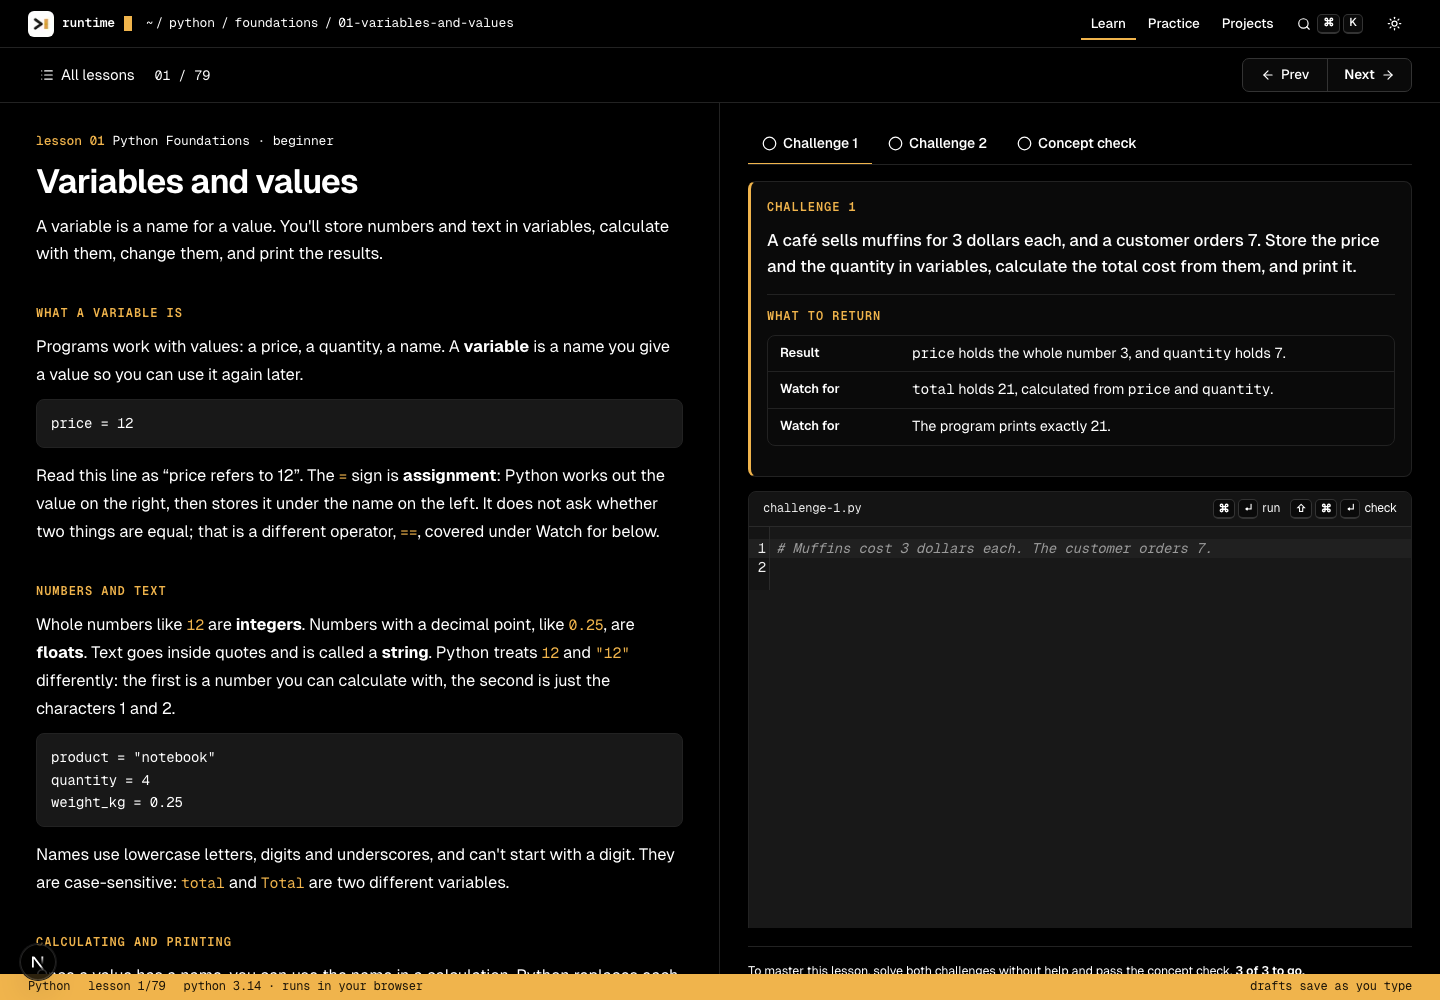
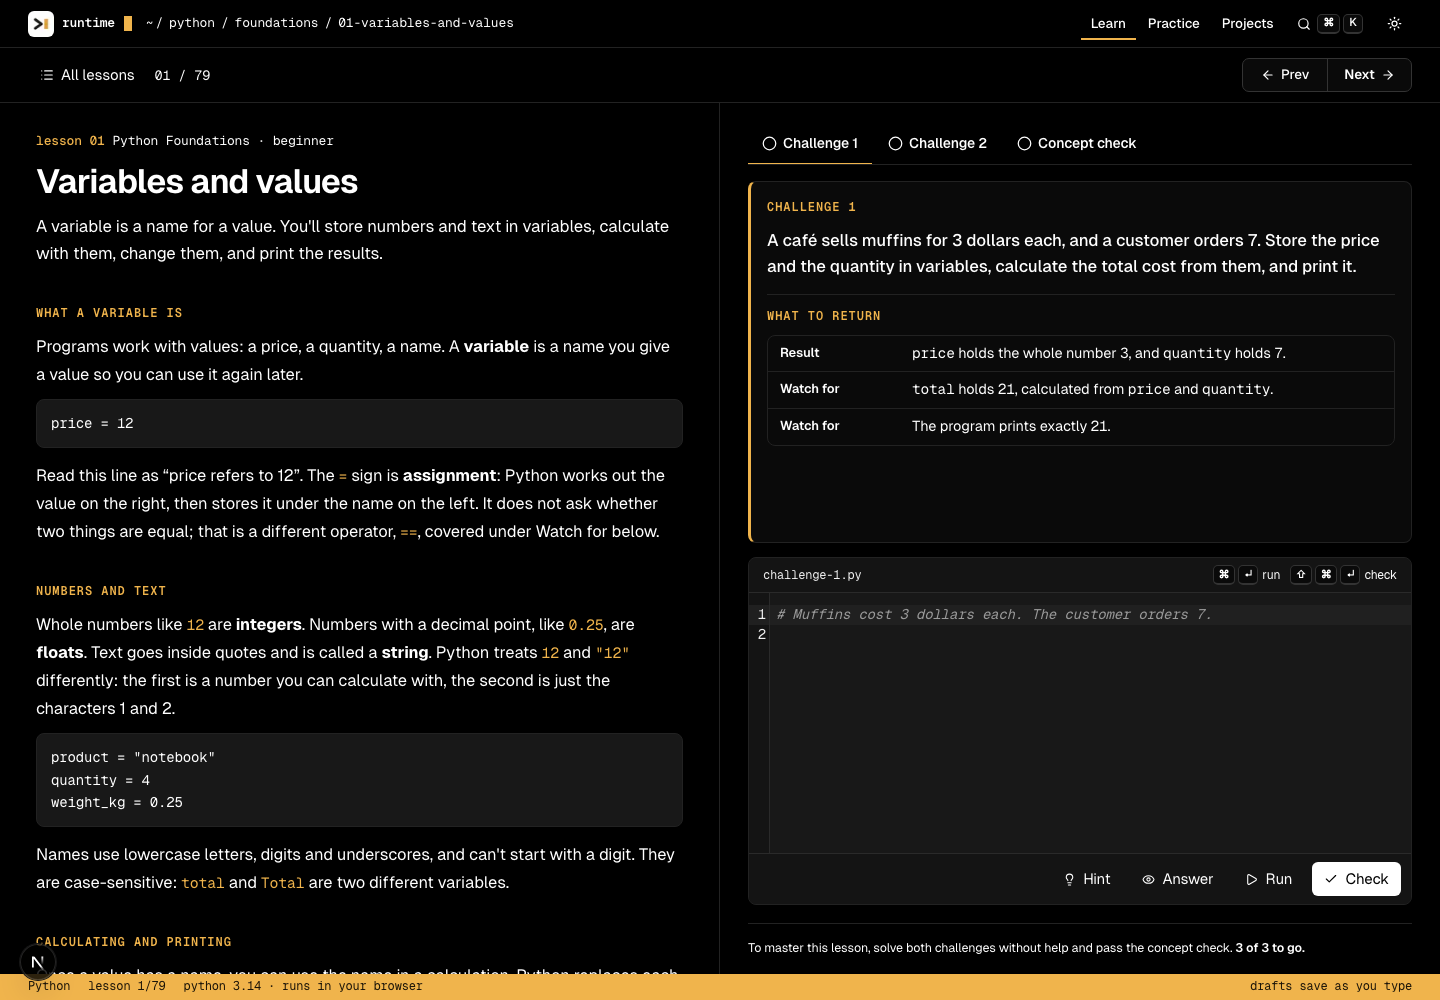
Balance Python editors and remove project preparation UI

diff --git a/src/features/py/Journeys.tsx b/src/features/py/Journeys.tsx
@@ -3,8 +3,7 @@ import Link from 'next/link';
 import { useState } from 'react';
 import { pythonJourneys, pythonProjects, journeyHref } from '@/content/python/journeys';
 import { projectGuides, projectLevels, projectSkills } from '@/content/python/journeys/catalog';
-import { getPythonLesson, pythonLessonHref } from '@/content/python';
-import { isPyLessonMastered, usePyProgress, usePyProgressReady } from '@/lib/python-progress';
+import { usePyProgress, usePyProgressReady } from '@/lib/python-progress';
 import { Shell } from '@/features/rt/Shell';
 import { BrowserBar } from './BrowserBar';
 import { Exercise } from './Study';
@@ -23,7 +22,7 @@ export function ProjectIndex() {
   });
   return <Shell subject="python" section="projects" path={[{label:'python',href:'/python'},{label:'projects'}]}><div className="rx-page py-catalog">
     <h1 className="rx-title">Python projects</h1><p className="rx-lead">Pick one useful program. Build it a milestone at a time, test your decisions, and keep the code and results.</p>
-    <p>Every project here runs in your browser with supplied data. Difficulty describes the programming involved; preparation links show what to learn first. Session estimates include time to try, debug, and check your work.</p>
+    <p>Every project here runs in your browser with supplied data. Difficulty describes the programming involved. Session estimates include time to try, debug, and check your work.</p>
     <div className="py-filters">
       <label>Search projects<input type="search" value={query} onChange={e => setQuery(e.target.value)} /></label>
       <div className="py-filter-control"><label htmlFor="project-level">Difficulty</label><select id="project-level" value={level} onChange={e => setLevel(e.target.value)}><option value="">All difficulties</option>{projectLevels.map(l => <option key={l} value={l}>{l[0].toUpperCase()+l.slice(1)}</option>)}</select></div>
@@ -53,24 +52,6 @@ export function ProjectIndex() {
   </div></Shell>;
 }
 
-function ProjectPreparation({ slug }: { slug: string }) {
-  const guide = projectGuides[slug];
-  const ready = usePyProgressReady();
-  const lessons = usePyProgress(s => s.lessons);
-  if (!guide) return null;
-  return <div className="py-project-preparation">
-    <p><b>{guide.level[0].toUpperCase()+guide.level.slice(1)}</b> · {guide.sessions} (estimate). You can stop after a milestone; your draft is saved.</p>
-    <h2>Before you start</h2><p>Review these lessons if the skills are new. You can still try the project at any time.</p>
-    <ul>{guide.preparation.map(slug => {
-      const l = getPythonLesson(slug)!;
-      const mastered = ready && isPyLessonMastered(lessons[l.ref], l.challenges.map(c => c.id));
-      return <li key={slug}><Link href={pythonLessonHref(slug)}>{l.title}</Link><span>{!ready ? ' · Loading progress…' : mastered ? ' · Mastered' : ' · Available to review'}</span></li>;
-    })}</ul>
-    <h2>What you will deliver</h2><p>Your Python source, {guide.deliverables.join(', ')}, and a summary of the code that passed the checks.</p>
-    <details><summary>Explain your work</summary><p>{guide.reflection}</p><p>This reflection is for your own project write-up; it is not automatically graded.</p></details>
-  </div>;
-}
-
 export function Journey({ slug, initialStage }: { slug: string; initialStage?: string }) {
   const j = pythonJourneys.find(j => j.slug === slug)!;
   const ready = usePyProgressReady();
@@ -90,13 +71,12 @@ export function Journey({ slug, initialStage }: { slug: string; initialStage?: s
   };
   const inheritedHelp = j.stages.slice(0,index).some(s => !!rec?.attempts[s.id]?.guided);
   return <Shell subject="python" section={j.kind === 'case' ? 'practice' : 'projects'} path={[{label:'python',href:'/python'},{label:j.kind === 'case' ? 'practice' : 'projects',href:j.kind === 'case' ? '/python/practice' : '/python/projects'},{label:j.title}]}>
-    {j.kind === 'project' && <BrowserBar label="All projects" current={journeyHref(j)} browseHref="/python/projects?browse=1" browseLabel="Project filters and preparation" items={pythonProjects.map(p => ({href:journeyHref(p), label:p.title}))} />}
+    {j.kind === 'project' && <BrowserBar label="All projects" current={journeyHref(j)} browseHref="/python/projects?browse=1" browseLabel="Project filters" items={pythonProjects.map(p => ({href:journeyHref(p), label:p.title}))} />}
     <section className="rx-page py-journey-intro">
       {stage && j.kind === 'project' && <button className="rx-btn ghost" onClick={() => setSelected(null)}>Project brief</button>}
       {(!stage || j.kind === 'case') && <>
       <h1 className="rx-title">{j.title}</h1><p className="rx-lead">{j.overview}</p>
       <p>{j.packages.length ? 'Uses pandas in your browser.' : 'Uses the Python standard library.'} Run code to inspect outputs and download generated files. Check answer records progress. Earlier milestone checks remain active.</p>
-      {j.kind === 'project' && <ProjectPreparation slug={j.slug} />}
       <details><summary>Explore the source data</summary>{Object.entries(j.files).map(([name,text]) => <div key={name}><h2>{name}</h2><pre>{text}</pre><Download name={name} text={text} /></div>)}</details>
       </>}
       <ol className="py-stage-list" aria-label="Milestones">{j.stages.map((s,n) => <li key={s.id}><button className="rx-btn" disabled={!ready || !available(n)} aria-current={stage?.id === s.id ? 'step' : undefined} onClick={() => open(n)}>{n+1}. {s.title}</button><span>{rec?.challenges[s.id]?.solved ? 'Independent' : rec?.challenges[s.id]?.assisted ? 'With help' : !available(n) ? 'Complete earlier stages first' : 'Ready'}</span></li>)}</ol>

diff --git a/src/app/python/py.css b/src/app/python/py.css
@@ -244,7 +244,7 @@
 .py-links a, .py-next a { text-decoration: underline; text-underline-offset: 4px; }
 .py-filters label, .py-brief label { display: flex; flex-direction: column; gap: 6px; }
 .py-filters input, .py-filters select, .py-brief select, .py-prediction textarea { border: 1px solid var(--rx-line-strong); border-radius: 5px; padding: 10px; background: var(--rx-surface); color: var(--rx-ink); }
-.py-study { display: grid; grid-template-columns: minmax(280px, .8fr) minmax(0, 1.2fr); min-height: calc(100dvh - 74px); }
+.py-study { display: grid; grid-template-columns: minmax(0, 1fr) minmax(0, 1fr); min-height: calc(100dvh - 74px); }
 .py-brief { padding: 28px; min-width: 0; line-height: 1.65; }
 .py-brief h1 { font-size: 1.7rem; line-height: 1.2; font-weight: 650; }
 .py-brief h2 { font-size: 1.1rem; font-weight: 650; margin: 24px 0 8px; }
@@ -310,9 +310,32 @@
 .py-file-data summary { cursor: pointer; font-size: 12.5px; font-weight: 600; }
 .py-file-data pre { margin: 12px 0 0; padding-top: 10px; border-top: 1px solid var(--rx-line); max-height: 320px; overflow: auto; font-family: var(--rx-mono); font-size: 12px; line-height: 1.6; }
 .py-project-actions { display: flex; flex-wrap: wrap; gap: 10px; margin-top: 22px; }
-.py-preparation { margin-top: 24px; font-size: 14px; }
-.py-preparation summary { cursor: pointer; }
-.py-preparation li { margin: 8px 0; }
 .py-finding, .py-prediction-input { display: block; width: 100%; padding: 14px; border: 1px solid var(--rx-line); border-radius: 6px; color: var(--rx-ink); background: var(--rx-bg); font: inherit; line-height: 1.6; resize: vertical; }
 .py-prediction-input { border: 0; border-radius: 0; font-family: var(--rx-mono); min-height: clamp(280px, calc(100dvh - 340px), 820px); background: var(--ide-bg); }
 .py-report-preview { white-space: pre-wrap; overflow-wrap: anywhere; font: 13px/1.7 var(--rx-mono); }
+
+/* Keep the work and its controls inside the visible right column. The page remains 50/50;
+   long lesson instructions scroll within their card so code and results stay usable. */
+@media (min-width: 701px) {
+  .py-lesson-work, .py-task-work {
+    height: calc(100dvh - 129px);
+    max-height: calc(100dvh - 129px);
+    padding-bottom: 16px;
+    overflow: hidden;
+  }
+  .py-lesson-work > [role="tabpanel"] { overflow: hidden; }
+  .py-challenge { height: 100%; min-height: 0; display: flex; flex-direction: column; overflow: auto; }
+  .py-challenge > .rx-question { flex: 0 1 auto; max-height: 35%; min-height: 0; overflow: auto; }
+  .py-challenge > .py-task-cell { flex: 1 0 60%; min-height: 220px; margin: 0; }
+  .py-task-panel { display: flex; flex-direction: column; flex: 1; min-height: 0; overflow: auto; }
+  .py-task-panel > .py-task-cell { flex: 1 0 280px; min-height: 280px; margin-bottom: 0; }
+  .py-task-cell { display: grid; grid-template-rows: auto minmax(0, 1fr) auto; }
+  .py-task-cell.has-output { grid-template-rows: auto minmax(0, 1fr) auto minmax(0, 1fr); }
+  .py-task-cell .py-editor, .py-task-cell .py-editor > div { height: 100%; min-height: 0; overflow: hidden; }
+  .py-task-cell .py-editor .cm-editor { height: 100%; min-height: 0 !important; max-height: none; }
+  .py-task-cell .py-editor .cm-scroller { min-height: 0 !important; height: 100%; overflow: auto; }
+  .py-task-cell .py-cell-output { display: flex; flex-direction: column; min-height: 0; overflow: hidden; }
+  .py-task-cell .py-cell-results { flex: 1; min-height: 0; overflow: auto; }
+}
+
+.py-task-cell .py-panel-note { display: none; }

diff --git a/src/features/py/Study.tsx b/src/features/py/Study.tsx
@@ -58,9 +58,9 @@ export function Exercise({ itemRef, id, title, question, starterOverride, next, 
       {predict && <><p className="rx-label sec">read the program</p><div className="rx-cell"><div className="rx-cell-head"><span className="name">example.py</span></div><div className="rx-cell-in"><pre>{predict.code}</pre></div></div></>}
       {Object.keys(files).length > 0 && <><p className="rx-label sec">data for this {project ? 'milestone' : 'question'}</p><FileData files={files} /></>}
     </article>
-    <section className="rx-work rx-lesson-work" aria-label="Your solution">
+    <section className="rx-work rx-lesson-work py-task-work" aria-label="Your solution">
       {project && <div className="rx-tabs" role="tablist" aria-label="Milestone steps"><button role="tab" id="program-tab" aria-controls="program-panel" aria-selected={tab === 'program'} onClick={() => setTab('program')}>Program{result?.passes ? ' ✓' : ''}</button><button role="tab" id="finding-tab" aria-controls="finding-panel" aria-selected={tab === 'finding'} onClick={() => setTab('finding')}>Finding{rec?.drafts[`finding:${id}`]?.trim() ? ' ✓' : ''}</button></div>}
-      <div id={tab === 'program' ? 'program-panel' : 'finding-panel'} role={project ? 'tabpanel' : undefined} aria-labelledby={project ? `${tab}-tab` : undefined}>
+      <div className="py-task-panel" id={tab === 'program' ? 'program-panel' : 'finding-panel'} role={project ? 'tabpanel' : undefined} aria-labelledby={project ? `${tab}-tab` : undefined}>
       {tab === 'finding' ? <><section className="rx-question"><p className="rx-question-text">What did you find?</p><p className="rx-cap">Explain the result, the assumptions you made, and one input you checked.</p></section><label className="sr-only" htmlFor="finding">Your finding</label><textarea id="finding" className="py-finding" rows={8} value={rec?.drafts[`finding:${id}`] ?? ''} onChange={e => actions.setDraft(itemRef, `finding:${id}`, e.target.value)} /><p className="rx-small">Saved in this browser. Included in your project report.</p></> : <>
       {predict ? <div className="rx-cell"><div className="rx-cell-head"><span className="name">your prediction</span></div><label className="sr-only" htmlFor="prediction">What does it print?</label><textarea className="py-prediction-input" id="prediction" value={code} onChange={e => setCode(e.target.value)} spellCheck={false} rows={12} /><div className="rx-cell-foot"><span className="hint" />{footer}<button className="rx-btn primary" onClick={() => { const r = gradePrediction(predict.output, code); setPredictionResult({ok:r.ok,code}); mark(r.ok); }}><Check size={14} />Check</button></div>{predictionResult && <p role="status" className={`rx-feedback ${predictionResult.ok ? 'ok' : 'bad'}`}>{predictionResult.ok ? '✓ Correct prediction.' : 'Not quite. Check each line, including spaces and punctuation.'}{predictionResult.code !== code ? ' Edited since this check.' : ''}</p>}</div> : <CodePane layout="cell" ref={pane} task={{ ...graded!.task, files, packages: graded!.task.packages ?? ('packages' in question ? question.packages : undefined) }} starter={starter} value={code} onChange={setCode} footer={footer} onGraded={r => {
         if (['unavailable','stopped','crashed','superseded'].includes(r.outcome)) return;

diff --git a/src/features/py/CodePane.tsx b/src/features/py/CodePane.tsx
@@ -90,7 +90,7 @@ export const CodePane = forwardRef<CodePaneHandle, {
   splitKey?: string;
   /** Initial share of the editor, 0–1. */
   editorShare?: number;
-}>(function CodePane({ task, layout = "workspace", name = "solution.py", footer, minHeight = "clamp(280px, calc(100dvh - 340px), 820px)", ungraded = false, starter, value, onChange, onGraded, checkBanner, splitKey = "runtime-python-split-console", editorShare = 0.58 }, ref) {
+}>(function CodePane({ task, layout = "workspace", name = "solution.py", footer, minHeight = "clamp(280px, calc(100dvh - 340px), 820px)", ungraded = false, starter, value, onChange, onGraded, checkBanner, splitKey = "runtime-python-split-console", editorShare = 0.5 }, ref) {
   const status = useSyncExternalStore(subscribePythonStatus, getPythonStatus, () => "idle" as const);
   const failure = useSyncExternalStore(subscribePythonStatus, getPythonFailure, () => null);
   const version = useSyncExternalStore(subscribePythonStatus, getPythonVersion, () => null);
@@ -223,7 +223,7 @@ export const CodePane = forwardRef<CodePaneHandle, {
               ? "Python ready"
               : "Loading Python…"; // idle only before the mount effect starts loading
 
-  if (layout === "cell") return <div className="rx-cell py-task-cell">
+  if (layout === "cell") return <div className={`rx-cell py-task-cell ${!outputHidden && (busy || checked || ran || interrupted) ? "has-output" : ""}`}>
     <div className="rx-cell-head"><span className="name">{name}</span><span className="acts" aria-hidden="true"><MacOnly><Keys keys={["mod", "enter"]} /><span>run</span>{!ungraded && <><Keys keys={["mod", "shift", "enter"]} /><span>check</span></>}</MacOnly></span></div>
     <PyEditor ref={editor} value={value} onChange={onChange} onRun={() => void run()} onCheck={() => void check()} label={name} errorLine={mark} minHeight={minHeight} />
     <div className="rx-cell-foot">
@@ -235,7 +235,7 @@ export const CodePane = forwardRef<CodePaneHandle, {
     {status === 'failed' && <p className="rx-feedback bad" role="alert">{failure} <button className="rx-btn" onClick={retry}>Retry</button></p>}
     {(busy || checked || ran || interrupted) && <div className="py-cell-output" ref={summaryRef}>
       <div className="rx-out-meta"><span>{last === 'check' ? 'checks' : 'output'}</span><span className="acts"><button className="rx-btn ghost" onClick={() => setOutputHidden(!outputHidden)}>{outputHidden ? 'Show' : 'Hide'}</button><button className="rx-btn ghost" disabled={busy !== null} onClick={() => {setChecked(null);setRan(null);setInterrupted(null);}}>Close</button></span></div>
-      {!outputHidden && <div className="py-cell-results" ref={outRef}>
+      {!outputHidden && <div className="py-cell-results" ref={outRef} tabIndex={0} role="region" aria-label="Program results">
         {interrupted && <p className="rx-feedback">The run was interrupted. Try again.</p>}
         {last === 'check' ? <><ChecksView busy={busy === 'check'} checked={checked} edited={!!checked && checked.code !== value} onLine={goTo} />{checked && checkBanner?.(checked.report)}</> : <ConsoleView busy={busy === 'run'} live={live} ran={ran} edited={!!ran && ran.code !== value} onLine={goTo} />}
       </div>}

diff --git a/src/features/py/ProjectJourney.tsx b/src/features/py/ProjectJourney.tsx
@@ -6,7 +6,6 @@ import { useEffect, useRef, useState } from 'react';
 import { ArrowLeft, ArrowRight, List, X } from 'lucide-react';
 import { pythonProjects, journeyHref, type PyJourney } from '@/content/python/journeys';
 import { projectGuides } from '@/content/python/journeys/catalog';
-import { getPythonLesson, pythonLessonHref } from '@/content/python';
 import { usePyProgress, usePyProgressReady, type PyLessonRecord } from '@/lib/python-progress';
 import { Shell } from '@/features/rt/Shell';
 import { Exercise, FileData } from './Study';
@@ -63,7 +62,6 @@ function ProjectBrief({project,rec}:{project:PyJourney;rec:PyLessonRecord|undefi
     <dl className="rx-dl"><dt>you deliver</dt><dd>{guide.deliverables.join(', ')}. Export a report with your checked Python and written findings.</dd><dt>skills</dt><dd>{guide.skills.join(' · ')}</dd><dt>scope</dt><dd>{project.stages.length} milestones · {Object.keys(project.files).length} input files · {guide.level}</dd></dl>
     <div className="py-project-actions"><Link className="rx-btn amber" href={href(project,next)}>{next==='export'?'Review the completed project':rec?'Continue with the next milestone':'Start the first milestone'}<ArrowRight size={15} /></Link><Link className="rx-btn ghost" href={href(project,'export')}>Open the report<ArrowRight size={15} /></Link></div>
     <p className="rx-label">milestones</p><ol className="rx-ms-list">{project.stages.map((s,i)=><li key={s.id}><Link href={href(project,s.id)}><span className={`mono g ${rec?.challenges[s.id]?.passes?'ok':''}`}>{rec?.challenges[s.id]?.passes?'✓':pad(i+1)}</span><span className="t">{s.title}<span className="d">{s.prompt}</span></span></Link></li>)}</ol>
-    <details className="py-preparation"><summary>Preparation lessons</summary><ul>{guide.preparation.map(slug=><li key={slug}><Link className="rx-link" href={pythonLessonHref(slug)}>{getPythonLesson(slug)!.title}</Link></li>)}</ul></details>
   </article><section className="rx-work rx-lesson-work" aria-label="Project data"><p className="rx-prompt-line" style={{marginTop:0}}><b>data</b> {Object.keys(project.files).length} input files</p><p className="rx-prose" style={{margin:'0 0 10px',fontSize:15}}>Use these files throughout the project. Each milestone builds on your previous program.</p><FileData files={project.files} /></section></div></div>;
 }
 

diff --git a/src/features/py/Home.tsx b/src/features/py/Home.tsx
@@ -22,7 +22,7 @@ export function PythonHome() {
         <p className="py-links"><Link href="/python/practice">Practice independently</Link><Link href="/python/projects">Build a project</Link><Link href="/python/playground">Open Python playground</Link></p>
         <section className="py-learning-loop" aria-labelledby="learning-loop-title">
           <h2 id="learning-loop-title">Make time to use what you learn</h2>
-          <ol><li><b>Learn one idea.</b> Read a lesson and predict an example before running it.</li><li><b>Try it yourself.</b> Solve a practice question, then inspect what went wrong.</li><li><b>Build something useful.</b> Choose a project when its preparation lessons feel familiar.</li></ol>
+          <ol><li><b>Learn one idea.</b> Read a lesson and predict an example before running it.</li><li><b>Try it yourself.</b> Solve a practice question, then inspect what went wrong.</li><li><b>Build something useful.</b> Apply the skills you have practiced to a project.</li></ol>
           <p>A short practice session counts. You do not need to finish a whole module in one sitting.</p>
         </section>
         {pythonModules.map((m) => (

diff --git a/src/features/py/Split.tsx b/src/features/py/Split.tsx
@@ -54,7 +54,7 @@ export function Split({
     } catch {}
   };
   const cols = direction === "columns";
-  const style = { "--py-share": `${(share * 100).toFixed(2)}%` } as CSSProperties;
+  const style = { "--py-share": `calc(${(share * 100).toFixed(2)}% - ${(share * 9).toFixed(2)}px)` } as CSSProperties;
   return (
     <div ref={ref} className={`py-split ${cols ? "cols" : "rows"} ${className}`} style={style}>
       <div className="py-split-a">{first}</div>

diff --git a/src/features/py/Lesson.tsx b/src/features/py/Lesson.tsx
@@ -217,7 +217,7 @@ function ChallengePanel({ lesson, challenge, index, onNext }: { lesson: PyLesson
 
   return (
     <div className="py-challenge">
-      <section className="rx-question" aria-labelledby={`${cid}-title`}>
+      <section className="rx-question" tabIndex={0} aria-labelledby={`${cid}-title`}>
         <div className="rx-question-head">
           <p className="rx-label">challenge {index + 1}</p>
           {record?.solved ? (

diff --git a/src/features/py/Workspace.tsx b/src/features/py/Workspace.tsx
@@ -43,7 +43,7 @@ export function PythonWorkspace({
         direction="columns"
         storageKey="runtime-python-split-task"
         label="Resize task and code"
-        initial={0.38}
+        initial={0.5}
         min={0.24}
         max={0.6}
         className="py-ws-split"

diff --git a/docs/python/sql-navigation-audit.md b/docs/python/sql-navigation-audit.md
@@ -40,3 +40,13 @@ The Python execution gate, content/grading definitions, stable refs, SQL source 
 - Screenshots and browser results: `docs/python/screens/sql-parity/`.
 
 Local changes only; no push or deployment.
+
+## Editor balance follow-up
+
+The outer columns were already equal, but the task card and editor minimum height pushed Learn's Run/Check row below the viewport. Python learning workspaces now fit within the visible right column. Long lesson task cards scroll independently, leaving room for the editor and its controls.
+
+As clarified by the user, the internal 50/50 requirement means code above and output below. When output is open, each receives an equal grid row; hiding/closing results gives the space back to code. Output remains keyboard-scrollable. Desktop pages retain equal left/right columns; narrow mobile pages stack naturally.
+
+Removed Preparation lessons from project briefs and the legacy project renderer, together with obsolete preparation copy. The playground and standalone workspace also default to equal columns/panes. The resizable split now subtracts its divider before calculating shares, so a nominal 50% is actually equal; user-adjusted saved ratios remain adjustable/resettable.
+
+Validation: `tests/e2e/python-editor-balance.mjs` measures equal page columns, equal code/output height, visible controls, and accessibility for Learn, Practice, and Projects at 1440px and 1024px widths. Results and screenshots are in `screens/editor-balance/`. The real-Python design/workflow suite also passed again, including grading, saved findings, report export, and mobile layouts.
